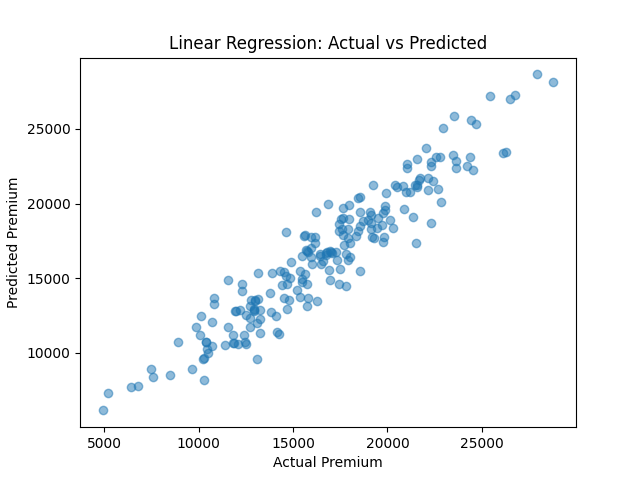
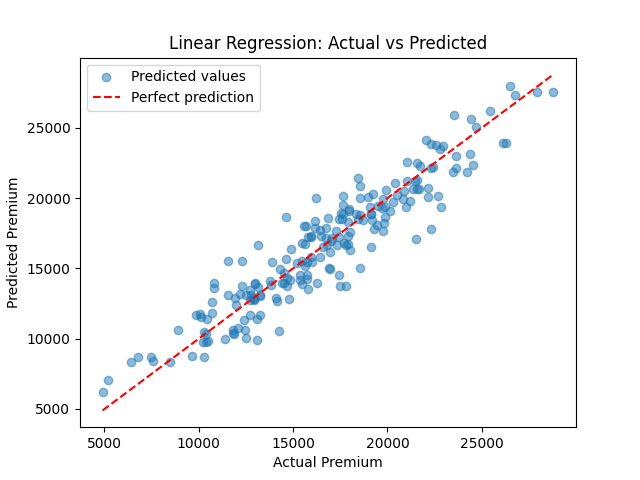
Initial commit - Health Insurance Premium Prediction

diff --git a/src/train_health.py b/src/train_health.py
@@ -189,12 +189,20 @@ results["pca_linear_regression"] = {
 }
 
 plt.figure()
-plt.plot(np.cumsum(pca_pipeline.named_steps["pca"].explained_variance_ratio_))
-plt.xlabel("Number of Components")
-plt.ylabel("Cumulative Explained Variance")
-plt.title("PCA Scree Plot")
-plt.savefig(os.path.join(FIGURES_DIR, "pca_scree.png"))
+plt.scatter(y_test, y_pred, alpha=0.5, label="Predicted values")
+plt.plot(
+    [y_test.min(), y_test.max()],
+    [y_test.min(), y_test.max()],
+    'r--',
+    label="Perfect prediction"
+)
+plt.xlabel("Actual Premium")
+plt.ylabel("Predicted Premium")
+plt.title("Linear Regression: Actual vs Predicted")
+plt.legend()
+plt.savefig(os.path.join(FIGURES_DIR, "pred_vs_actual_linear.png"))
 plt.close()
+
 
 # =================================================
 # Save Results (JSON-safe)
